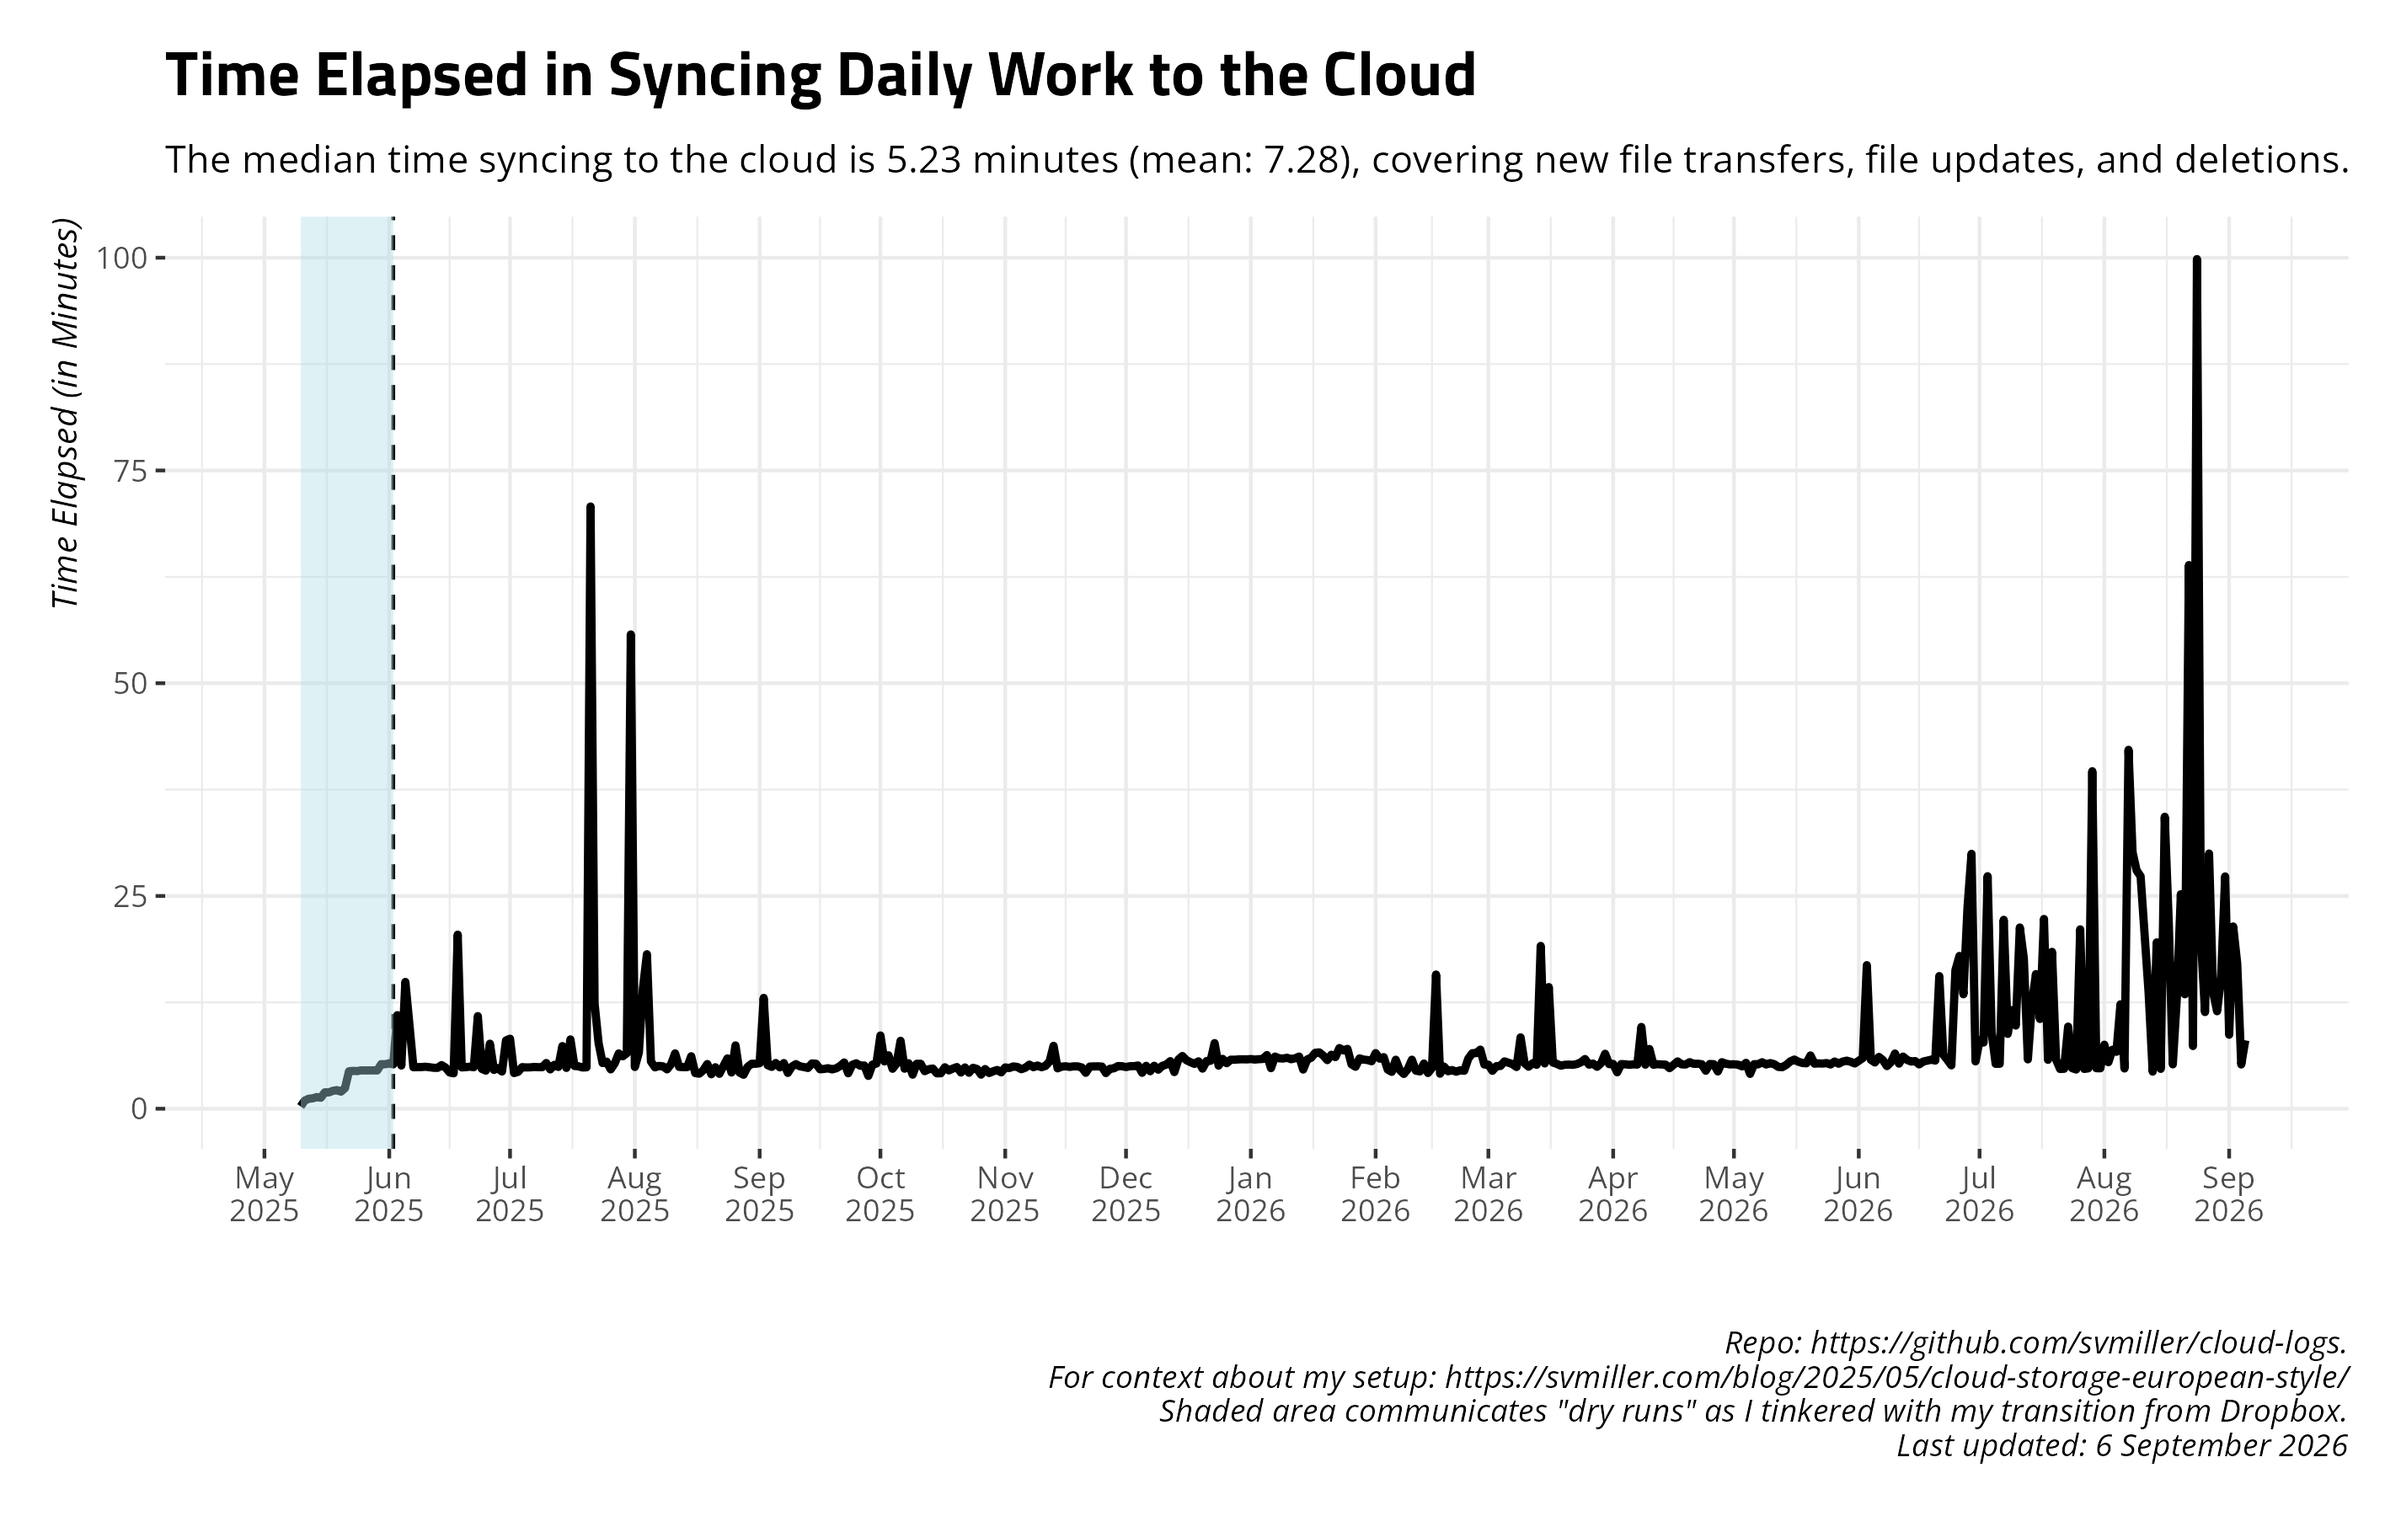
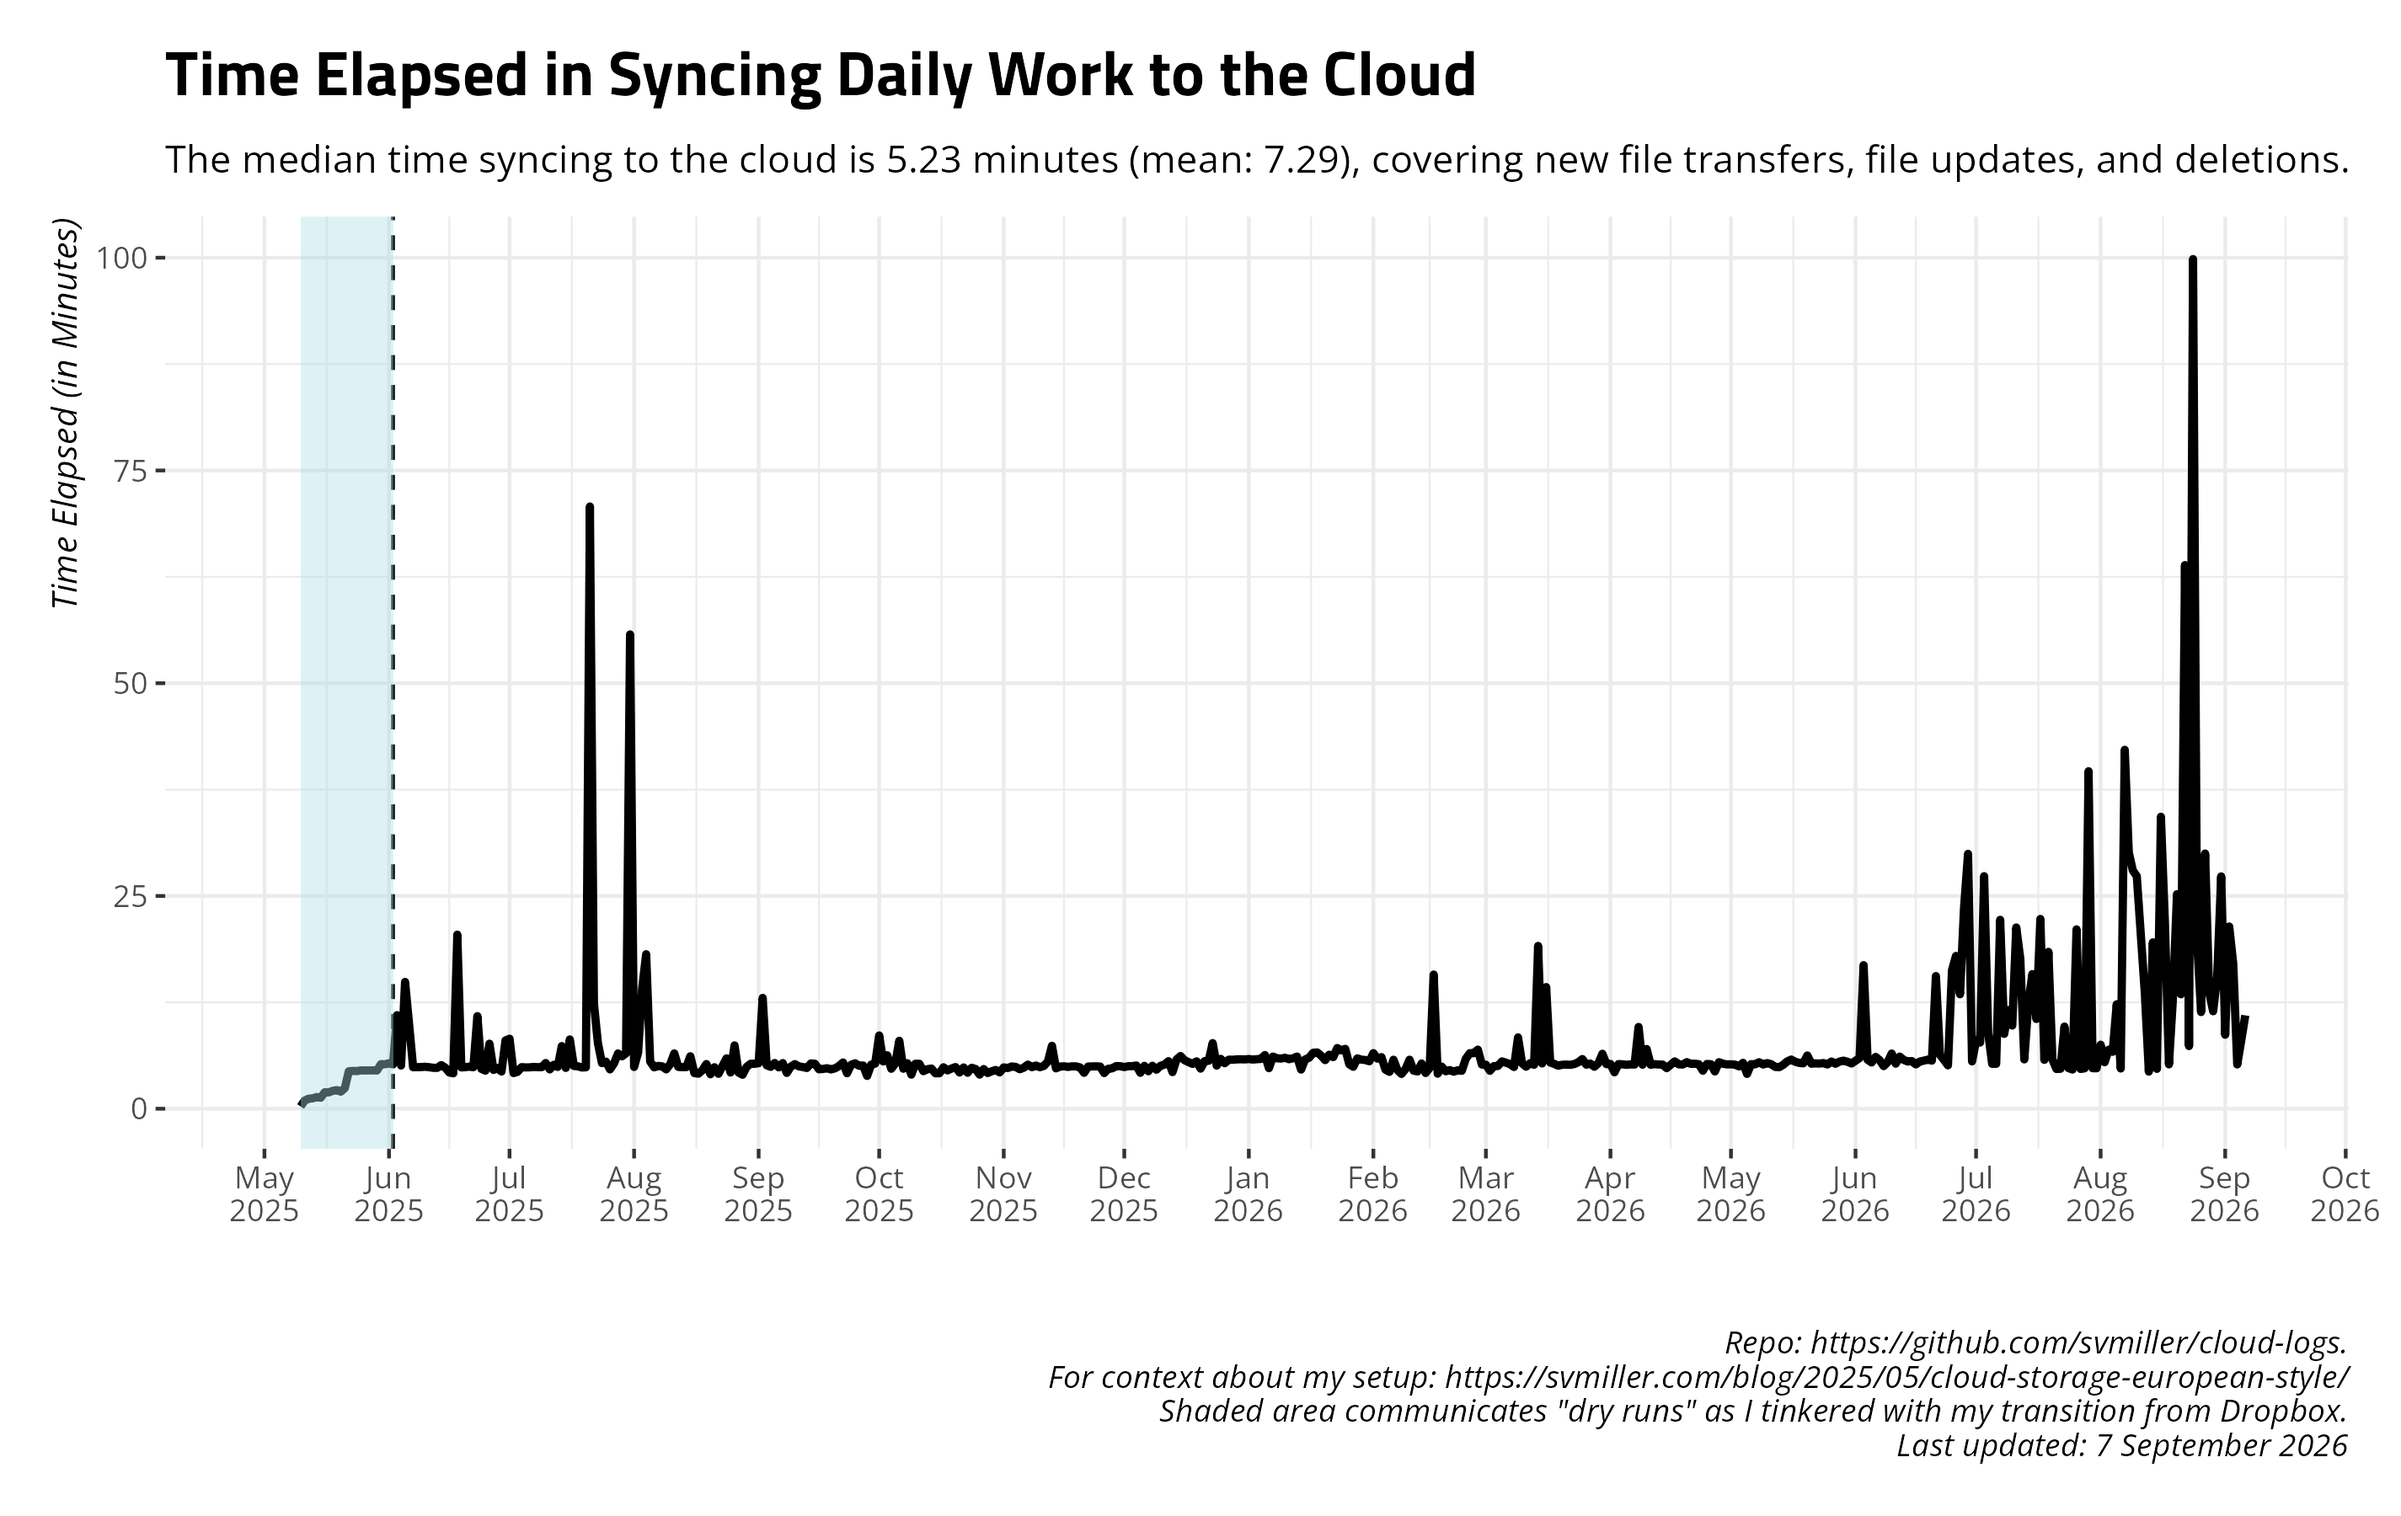
Date: 2026-09-07 09:00:33. Hi mom!

diff --git a/README.md b/README.md
@@ -27,17 +27,17 @@ and uploads to Github.
     #> # A tibble: 14 × 4
     #>    date       ftransfer stransfer   elapsed   
     #>    <date>         <dbl> <chr>       <chr>     
-    #>  1 2026-08-23        13 2.825 MiB   7m21.9s   
-    #>  2 2026-08-24       112 19.678 MiB  1h39m50.5s
-    #>  3 2026-08-25        43 704.125 KiB 19m45.7s  
-    #>  4 2026-08-26        10 38.500 KiB  11m21.6s  
-    #>  5 2026-08-27        31 697.618 KiB 29m59.2s  
-    #>  6 2026-08-28        15 43.093 MiB  13m43.3s  
-    #>  7 2026-08-29         0 <NA>        11m27.3s  
-    #>  8 2026-08-30         0 <NA>        15m27.8s  
-    #>  9 2026-08-31        33 171.129 KiB 27m17.9s  
-    #> 10 2026-09-01        22 376.333 KiB 8m41.6s   
-    #> 11 2026-09-02        19 56.660 MiB  21m24.9s  
-    #> 12 2026-09-03         1 23.351 KiB  17m3.0s   
-    #> 13 2026-09-04        55 107.209 MiB 5m12.1s   
-    #> 14 2026-09-05         0 <NA>        8m2.0s
+    #>  1 2026-08-24       112 19.678 MiB  1h39m50.5s
+    #>  2 2026-08-25        43 704.125 KiB 19m45.7s  
+    #>  3 2026-08-26        10 38.500 KiB  11m21.6s  
+    #>  4 2026-08-27        31 697.618 KiB 29m59.2s  
+    #>  5 2026-08-28        15 43.093 MiB  13m43.3s  
+    #>  6 2026-08-29         0 <NA>        11m27.3s  
+    #>  7 2026-08-30         0 <NA>        15m27.8s  
+    #>  8 2026-08-31        33 171.129 KiB 27m17.9s  
+    #>  9 2026-09-01        22 376.333 KiB 8m41.6s   
+    #> 10 2026-09-02        19 56.660 MiB  21m24.9s  
+    #> 11 2026-09-03         1 23.351 KiB  17m3.0s   
+    #> 12 2026-09-04        55 107.209 MiB 5m12.1s   
+    #> 13 2026-09-05         0 <NA>        8m2.0s    
+    #> 14 2026-09-06         0 <NA>        10m58.2s
